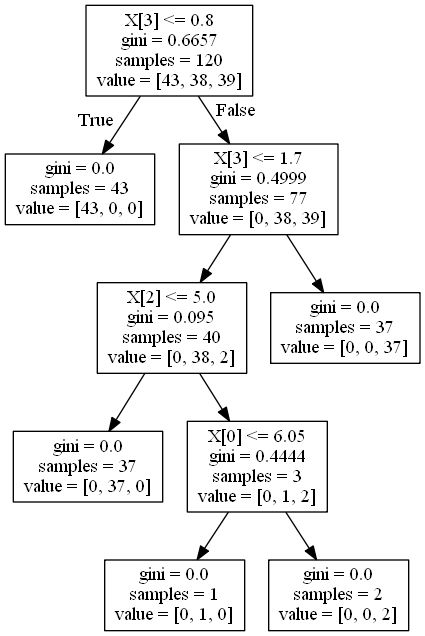
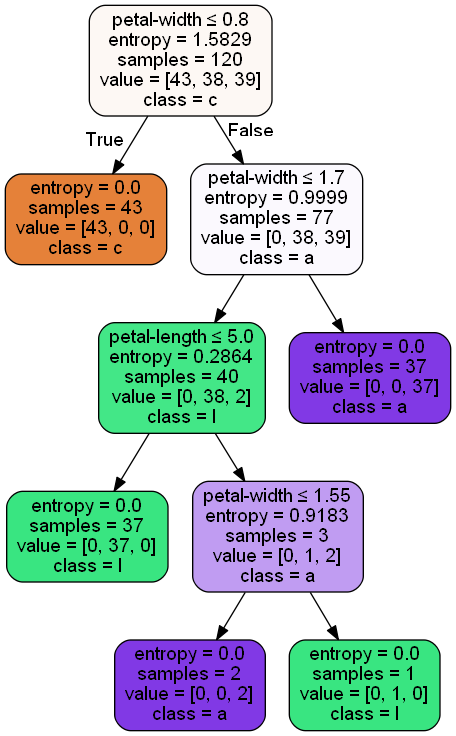
1.for iris_cart add color...2.create iris_knn

diff --git a/sklearn/chapter03/iris_cart.py b/sklearn/chapter03/iris_cart.py
@@ -7,6 +7,7 @@
  
  pip install pydotplus
  
+ 
 """
 __author__ = 'Fyso'
 
@@ -16,9 +17,9 @@ from pandas import read_csv
 from sklearn.model_selection import train_test_split
 from sklearn.tree import DecisionTreeClassifier
 
+from sklearn.tree import export_graphviz
 from matplotlib.image import imread
 from matplotlib import pyplot as plt
-from sklearn.tree import export_graphviz
 import pydotplus
 import os
 
@@ -44,11 +45,15 @@ X_train, X_validation, Y_train, Y_validation = \
 
 
 #决策树模型训练
-cart = DecisionTreeClassifier()
+cart = DecisionTreeClassifier(criterion='entropy')
 cart.fit(X=X_train, y=Y_train)
 
 #决策树图形化
-dot_data = export_graphviz(cart,out_file=None)
+dot_data = export_graphviz(cart,out_file=None,
+                     feature_names=names[0:4],  
+                     class_names=names[4],  
+                     filled=True, rounded=True,  
+                     special_characters=True)
 graph = pydotplus.graph_from_dot_data(dot_data)
 path = os.getcwd() + '\\'
 tree_file = path + 'iris.png'
@@ -62,7 +67,7 @@ finally:
 
 #显示图像
 image_data = imread(tree_file)
-plt.figure(num='cart',figsize=(16,16)) 
+plt.figure(num='cart',figsize=(10,10)) 
 plt.imshow(image_data)
 plt.axis('off')
 plt.show()
@@ -72,6 +77,8 @@ predictions = cart.predict(X_validation)
 print(accuracy_score(Y_validation, predictions))
 print(confusion_matrix(Y_validation, predictions))
 print(classification_report(Y_validation, predictions)) #
+
+
 
 
 

diff --git a/sklearn/chapter04/matplot.py b/sklearn/chapter04/matplot.py
@@ -1,0 +1,22 @@
+#!/usr/bin/env python
+# -*- coding: utf-8 -*-
+"""
+ Author:      fyso
+ DateTime:    Fri Apr 27 14:40:04 2018
+ Description: Description
+"""
+__author__ = 'Fyso'
+
+import matplotlib.pyplot as plt
+import numpy as np
+
+# 定义绘图的数据
+#myarray = np.array([[1, 2, 3], [2, 3, 4], [3, 4, 5]])
+myarray = np.array([[1, 2, 3], [2, 3, 4]])
+# 初始化绘图
+plt.plot(myarray)
+# 设定x，y轴
+plt.xlabel('x axis')
+plt.ylabel('y axis')
+# 绘图
+plt.show()

diff --git a/sklearn/chapter03/iris_knn.py b/sklearn/chapter03/iris_knn.py
@@ -1,0 +1,9 @@
+#!/usr/bin/env python
+# -*- coding: utf-8 -*-
+"""
+ Author:      fyso
+ DateTime:    Fri Apr 27 14:51:53 2018
+ Description: Description
+"""
+__author__ = 'Fyso'
+
